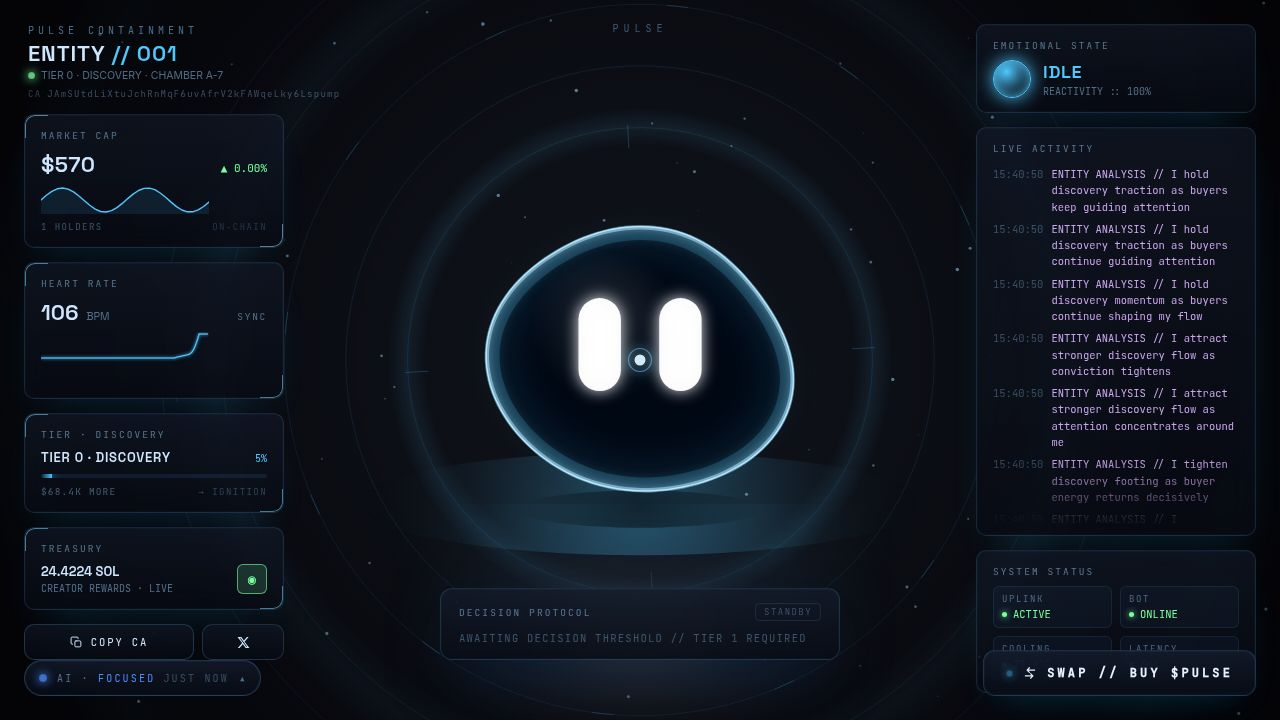
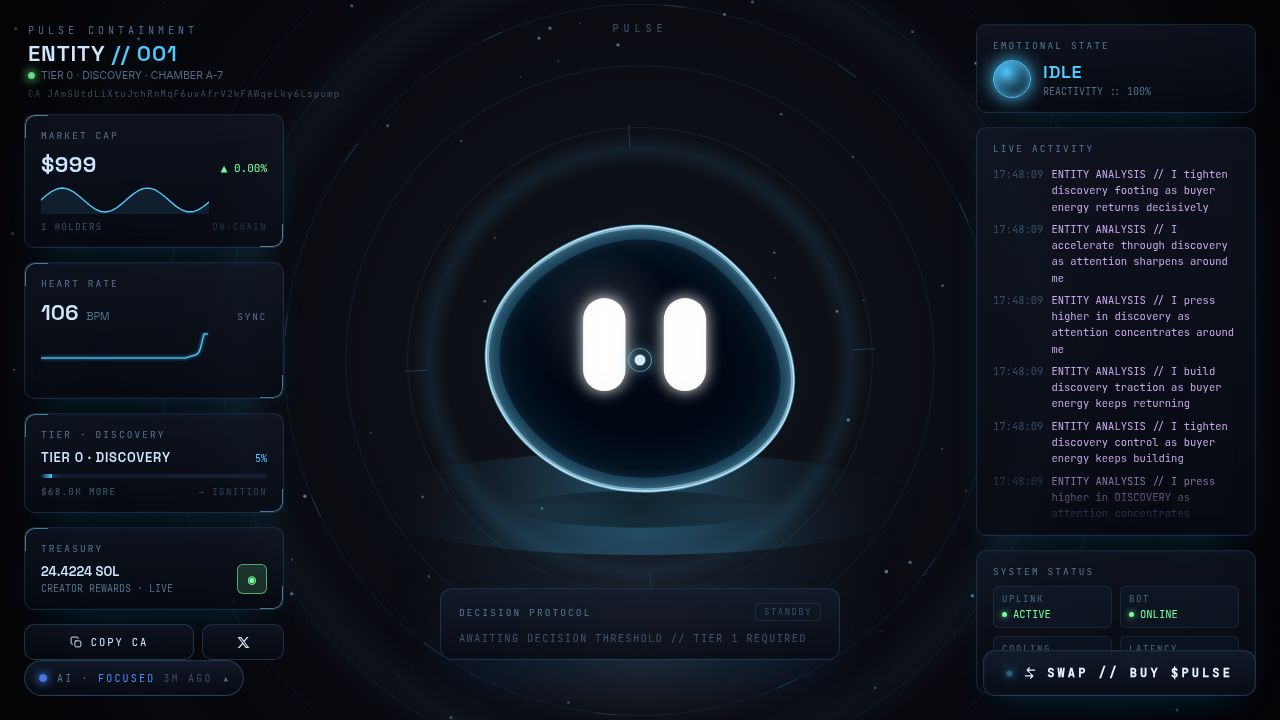
Remove old contract address from website display
Removes the fallback logic in dashboardApi.ts that used the PULSE_MINT_ADDRESS environment variable, ensuring the contract address is sourced solely from the database.

Replit-Commit-Author: Agent
Replit-Commit-Session-Id: 256fe703-ecfb-4dd1-be04-726b324382bf
Replit-Commit-Checkpoint-Type: full_checkpoint
Replit-Commit-Event-Id: e42c60fd-f46e-4309-94de-fda72ccbdfec
Replit-Commit-Screenshot-Url: https://storage.googleapis.com/screenshot-production-us-central1/d9249cc0-66ca-4a3b-a843-dcd19e096619/256fe703-ecfb-4dd1-be04-726b324382bf/2lHUsCu
Replit-Helium-Checkpoint-Created: true

diff --git a/apps/bot/src/api/dashboardApi.ts b/apps/bot/src/api/dashboardApi.ts
@@ -50,7 +50,11 @@ export function mountDashboardApi(app: Express): void {
       const change24h =
         first && last && first > 0 ? ((last - first) / first) * 100 : 0;
 
-      const mintAddress = tokenState?.mint_address ?? env.PULSE_MINT_ADDRESS ?? null;
+      // DB is the single source of truth for the live mint. The env var is
+      // a bootstrap hint for the bot's market-data pollers only — it must
+      // not leak into the API response, otherwise a stale launch CA would
+      // appear in the UI before the new token is live.
+      const mintAddress = tokenState?.mint_address ?? null;
 
       res.json({
         tokenState: {
